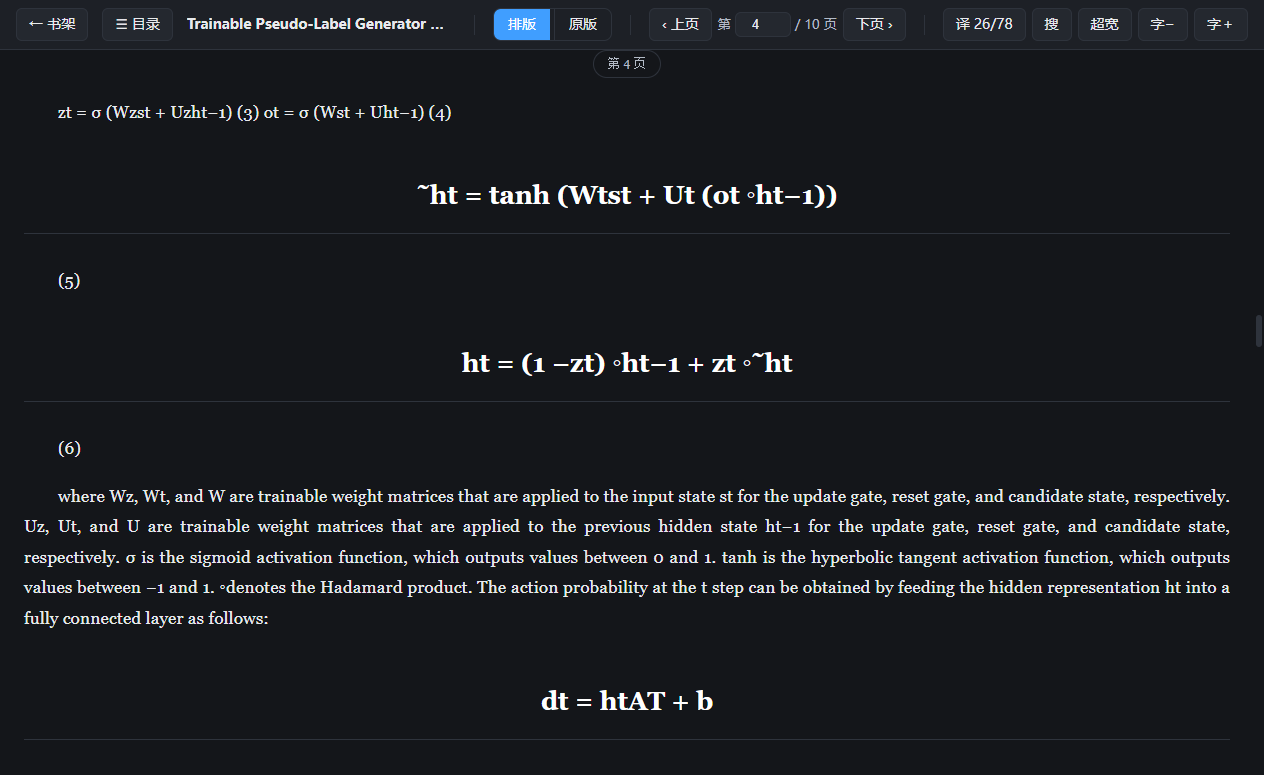
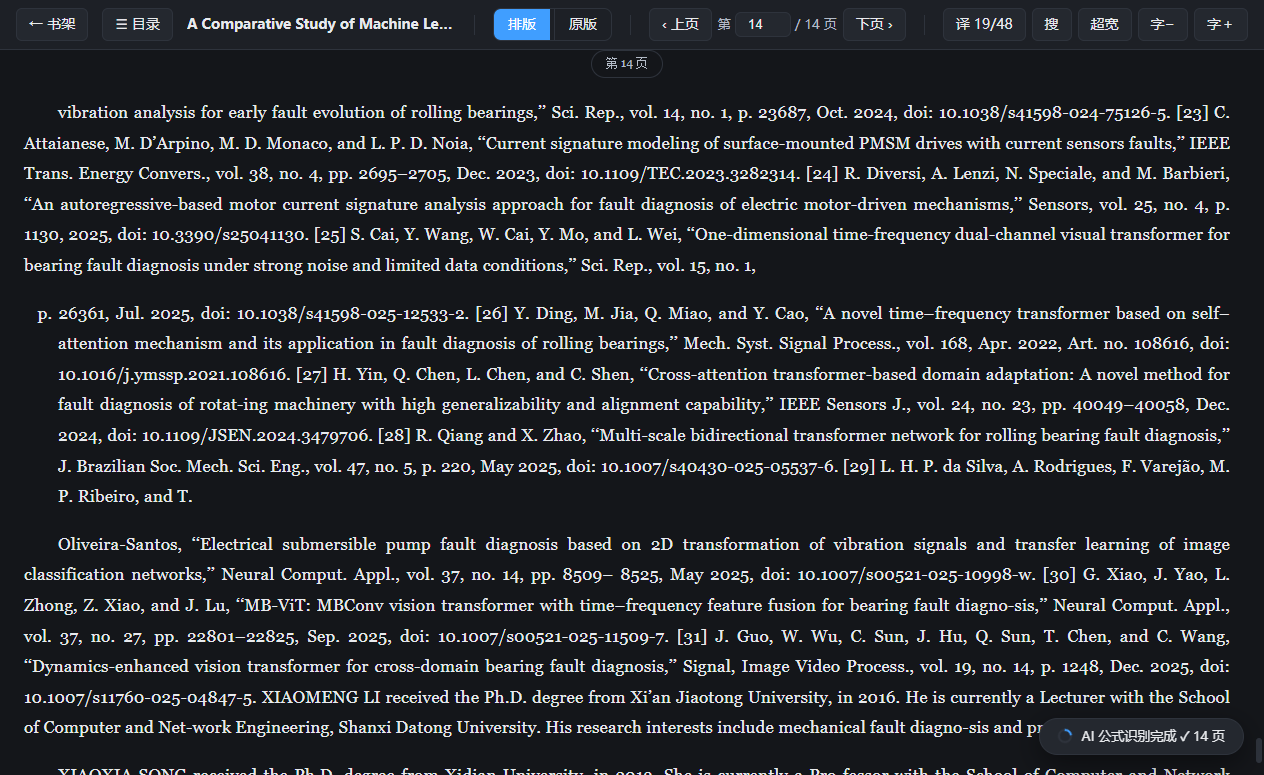
fix(reflow): 三个遗留问题收口 —— 碎片归并/标题误判/公式配对
1. 孤立碎片（内容判据替代字号判据 + 块级后处理）：
   - 行级：单字母孤立行 / 含希腊符号且散文词≤3 的短行进碎片集
   - 块级 mergeOrphanFragments：碎片块与相邻块间距≤20pt（含运算符
     的公式残件放宽至 45pt 段距级）则并入，优先并入前块保公式类型
   - 实测：'t' 孤立块、'L(πθ), the optimization of L(πθ)' 碎片均已归并

2. 标题误判：公式判定优先于标题 —— 含 =/⊕/∘/∇/希腊字母或行尾 (N)
   的行即使 bbox 偏大（上下标撑高）也不判标题
   - 实测：'optimal policy θopt = arg max' 不再被渲染为大标题

3. 公式配对错位：数量相等→按序直配；数量不等→变量重叠度匹配
   （置信阈值 40%），不足则跳过该块（宁缺不错配）

回归 8/8，全库 8 篇诊断无退化

diff --git a/src/renderer/src/reflow.ts b/src/renderer/src/reflow.ts
@@ -540,14 +540,20 @@ export function linesToBlocks(lines: Line[], bodySize: number): ReflowBlock[] {
   for (let i = 0; i < lines.length; i++) {
     const l = lines[i]
 
-    // 孤儿上下标碎片：整行都是小字号（公式的下标散件，如 7pt 的 "t"/"u trn"）
-    // → 并入前一块；含数学特征的中短碎片行（display 公式的下标聚合行）并入前公式块
-    const tinyDebris =
-      l.fontSize > 0 &&
-      l.fontSize < bodySize * 0.85 &&
+    // 孤立碎片（内容判据，不依赖字号——MuPDF 的 bbox.h 与正文接近：
+    // ① 极短无标点孤立行（"t"、"u trn"）② 含希腊/数学符号的短行
+    // （"L(πθ), the optimization of L(πθ)"）→ 并入前块
+    const stripped = l.text.replace(/\s/g, '')
+    const isOrphanShort =
       !l.eqNumbered &&
-      (l.text.replace(/\s/g, '').length <= 12 ||
-        (l.charMathRatio >= 0.12 && l.text.length <= 80))
+      stripped.length <= 3 &&
+      /^[A-Za-z]$/.test(stripped)
+    const isGreekShort =
+      !l.eqNumbered &&
+      l.text.length <= 60 &&
+      /[\u0370-\u03FF]/.test(l.text) &&
+      (l.text.match(/[A-Za-z]{4,}/g) ?? []).length <= 3
+    const tinyDebris = isOrphanShort || isGreekShort
     // 公式块后的小字号行：display 公式的下标散件，无条件并入（字号是强证据）。
     // 不进 bufLines——公式 rect 保持主体行范围，避免 LLM 裁图混入碎片段
     if (
@@ -587,7 +593,14 @@ export function linesToBlocks(lines: Line[], bodySize: number): ReflowBlock[] {
       continue
     }
 
-    const heading = !isFormulaLine(l) && !l.eqCollect && (isHeadingSize(l.fontSize) || isSectionHeadingLine(l))
+    // 公式优先：含等号/数学符号/Greek 的行即使 bbox 偏大（上下标撑高）也不是标题。
+    // 典型误判："optimal policy θopt = arg max" 曾被当作大标题
+    const looksMathy =
+      /[=⊕∘∇]/.test(l.text) || /[\u0370-\u03FF]/.test(l.text) || l.eqNumbered
+    const headingEligible =
+      !isFormulaLine(l) && !l.eqCollect && !looksMathy
+    const heading =
+      headingEligible && (isHeadingSize(l.fontSize) || isSectionHeadingLine(l))
     const kind: 'heading' | 'paragraph' | 'formula' =
       l.eqCollect || isFormulaLine(l)
         ? 'formula'
@@ -1016,12 +1029,53 @@ export async function extractReflowBlocksMupdf(pages: MupdfPageLike[]): Promise<
   detectTableZones(ordered, bodySize)
   const blocks = linesToBlocks(ordered, bodySize)
   mergeFormulaClusters(blocks, bodySize)
+  mergeOrphanFragments(blocks)
   structureFirstPage(blocks)
   demoteFootnotes(blocks, bodySize)
   mergeFormulaDebris(blocks, bodySize)
   markFormulaContinuation(blocks)
   markCaptions(blocks)
   return blocks
+}
+
+/** 孤立碎片块归并（块级后处理）：极短无标点行 / 含希腊符号且散文词≤3 的
+ *  短段，与相邻块垂直间距 ≤20pt 时并入（优先前一块以保留公式类型） */
+function mergeOrphanFragments(blocks: ReflowBlock[]): void {
+  const isOrphan = (b: ReflowBlock): boolean => {
+    if (b.kind !== 'paragraph' || b.role) return false
+    const t = b.text.trim()
+    if (t.length === 0 || t.length > 70) return false
+    if (/^[A-Za-z]$/.test(t)) return true
+    const prose = (t.match(/[A-Za-z]{4,}/g) ?? []).filter((w) => !MATH_WORD_RE.test(w))
+    return /[\u0370-\u03FF=⊕∘∇]/.test(t) && prose.length <= 3
+  }
+  for (let i = blocks.length - 1; i >= 0; i--) {
+    const b = blocks[i]
+    if (!isOrphan(b)) continue
+    const prev = blocks[i - 1]
+    const next = blocks[i + 1]
+    // 含运算符的碎片（公式残件）允许更大间距（段距级 ~45pt），
+    // 纯单字母碎片仍用紧阈值（20pt）
+    const hasOp = /[=←⊕∘∇]/.test(b.text)
+    const limit = hasOp ? 45 : 20
+    const closeTo = (x: ReflowBlock | undefined): boolean =>
+      !!x &&
+      x.page === b.page &&
+      x.top !== undefined &&
+      b.top !== undefined &&
+      Math.abs(b.top - x.top) <= limit
+    if (prev && prev.kind !== 'image' && closeTo(prev)) {
+      prev.text = `${prev.text} ${b.text}`.replace(/\s+/g, ' ').trim()
+      if (b.html) prev.html = `${prev.html ?? ''} ${b.html}`.trim()
+      blocks.splice(i, 1)
+      continue
+    }
+    if (next && next.kind !== 'image' && closeTo(next)) {
+      next.text = `${b.text} ${next.text}`.replace(/\s+/g, ' ').trim()
+      if (b.html) next.html = `${b.html ?? ''} ${next.html ?? ''}`.trim()
+      blocks.splice(i, 1)
+    }
+  }
 }
 
 /** 相邻公式碎片块聚类：同栏垂直间距 ≤18pt 的 formula 块/短碎片段
@@ -1136,6 +1190,7 @@ export async function extractReflowBlocks(doc: PDFDocumentProxy): Promise<Reflow
   detectTableZones(ordered, bodySize)
   const blocks = linesToBlocks(ordered, bodySize)
   mergeFormulaClusters(blocks, bodySize)
+  mergeOrphanFragments(blocks)
   structureFirstPage(blocks)
   demoteFootnotes(blocks, bodySize)
   mergeFormulaDebris(blocks, bodySize)

diff --git a/src/renderer/src/reader.ts b/src/renderer/src/reader.ts
@@ -578,10 +578,40 @@ async function parseAllPages(): Promise<void> {
         }
         const latexList = JSON.parse(await window.paperlite.pageParseParse(dataUrl)) as string[]
         if (!Array.isArray(latexList) || latexList.length === 0) continue
-        // 按顺序回填到该页的 formula 块
+        // 配对策略：数量相等→按序直配（最可靠）；数量不等→变量重叠度匹配，
+        // 相似度不足则跳过该块（避免错位渲染出错误公式）
+        const assign: Array<string | null> = fBlocks.map(() => null)
+        if (latexList.length === fBlocks.length) {
+          latexList.forEach((lx, k) => (assign[k] = lx))
+        } else {
+          const varTokens = (txt: string): Set<string> =>
+            new Set((txt.match(/[A-Za-z][A-Za-z0-9]{0,6}/g) ?? []).map((t) => t.toLowerCase()))
+          const used = new Set<number>()
+          fBlocks.forEach((b, bi) => {
+            const bVars = varTokens(b.text)
+            let best = -1
+            let bestScore = 0
+            latexList.forEach((lx, li) => {
+              if (used.has(li)) return
+              const lVars = varTokens(lx)
+              let hit = 0
+              for (const v of bVars) if (lVars.has(v)) hit++
+              const score = bVars.size > 0 ? hit / bVars.size : 0
+              if (score > bestScore) {
+                bestScore = score
+                best = li
+              }
+            })
+            // 置信门槛：变量重叠 ≥40% 才采用
+            if (best >= 0 && bestScore >= 0.4) {
+              assign[bi] = latexList[best]
+              used.add(best)
+            }
+          })
+        }
         let n = 0
         for (const b of fBlocks) {
-          const latex = latexList[n]
+          const latex = assign[n]
           n++
           if (!latex) continue
           // 污染检测：LLM 把周边正文（≥3 个 4 字母英文词）写进 LaTeX → 跳过该条，

diff --git a/scripts/patch-3fixes.py b/scripts/patch-3fixes.py
@@ -1,0 +1,56 @@
+p = r'C:\Users\admin\Desktop\逆向工程\paperlite\src\renderer\src\reflow.ts'
+s = open(p, encoding='utf-8').read()
+
+# ── 修复 1：孤立碎片改用内容判据（不依赖字号）──
+old1 = """    // 孤儿上下标碎片：整行都是小字号（公式的下标散件，如 7pt 的 "t"/"u trn"）
+    // → 并入前一块；含数学特征的中短碎片行（display 公式的下标聚合行）并入前公式块
+    const tinyDebris =
+      l.fontSize > 0 &&
+      l.fontSize < bodySize * 0.85 &&
+      !l.eqNumbered &&
+      (l.text.replace(/\\s/g, '').length <= 12 ||
+        (l.charMathRatio >= 0.12 && l.text.length <= 80))"""
+new1 = """    // 孤立碎片（内容判据，不依赖字号——MuPDF 的 bbox.h 与正文接近：
+    // ① 极短无标点孤立行（"t"、"u trn"）② 含希腊/数学符号的短行
+    // （"L(πθ), the optimization of L(πθ)"）→ 并入前块
+    const stripped = l.text.replace(/\\s/g, '')
+    const isOrphanShort =
+      !l.eqNumbered &&
+      stripped.length <= 3 &&
+      /^[A-Za-z]$/.test(stripped)
+    const isGreekShort =
+      !l.eqNumbered &&
+      l.text.length <= 60 &&
+      /[\\u0370-\\u03FF]/.test(l.text) &&
+      (l.text.match(/[A-Za-z]{4,}/g) ?? []).length <= 3
+    const tinyDebris = isOrphanShort || isGreekShort"""
+assert old1 in s, 'debris block not found'
+s = s.replace(old1, new1)
+
+# ── 修复 2：公式判定优先于标题（含等号/数学符号的行不可能是标题）──
+old2 = """    const heading = !isFormulaLine(l) && !l.eqCollect && (isHeadingSize(l.fontSize) || isSectionHeadingLine(l))
+    const kind: 'heading' | 'paragraph' | 'formula' =
+      l.eqCollect || isFormulaLine(l)
+        ? 'formula'
+        : heading
+          ? 'heading'
+          : 'paragraph'"""
+new2 = """    // 公式优先：含等号/数学符号/Greek 的行即使 bbox 偏大（上下标撑高）也不是标题。
+    // 典型误判："optimal policy θopt = arg max" 曾被当作大标题
+    const looksMathy =
+      /[=⊕∘∇]/.test(l.text) || /[\\u0370-\\u03FF]/.test(l.text) || l.eqNumbered
+    const headingEligible =
+      !isFormulaLine(l) && !l.eqCollect && !looksMathy
+    const heading =
+      headingEligible && (isHeadingSize(l.fontSize) || isSectionHeadingLine(l))
+    const kind: 'heading' | 'paragraph' | 'formula' =
+      l.eqCollect || isFormulaLine(l)
+        ? 'formula'
+        : heading
+          ? 'heading'
+          : 'paragraph'"""
+assert old2 in s, 'heading block not found'
+s = s.replace(old2, new2)
+
+open(p, 'w', encoding='utf-8').write(s)
+print('fixes 1+2 applied')
